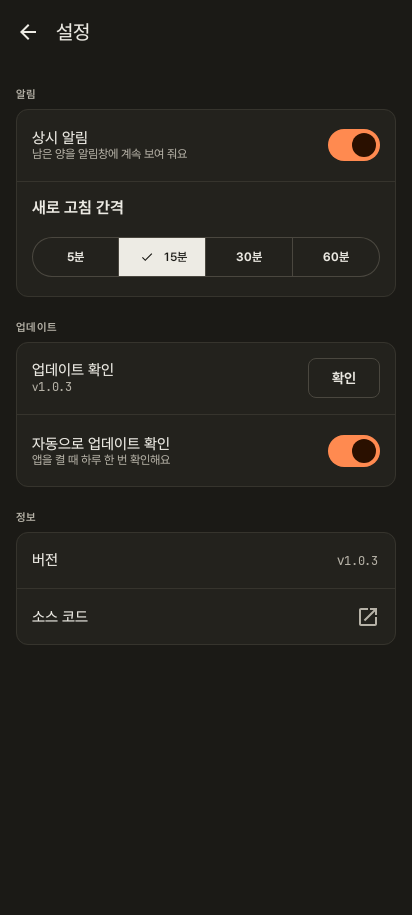
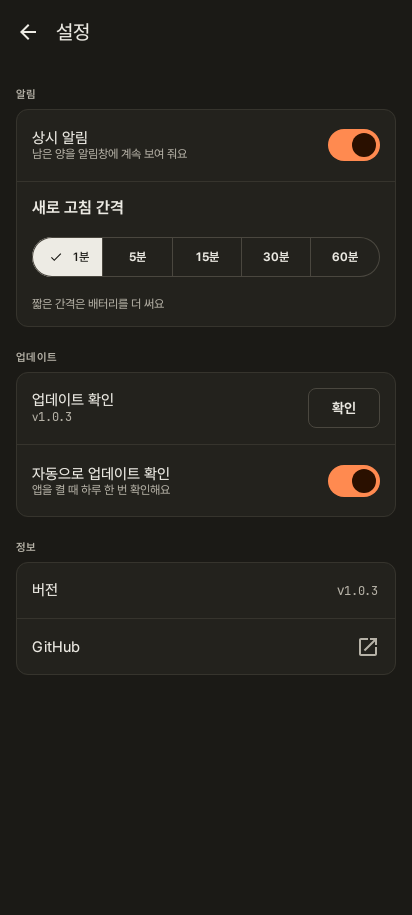
docs: README for v1.2.0 (#48)
* docs: README for v1.2.0

New app icon in the header, vendor logos in the supported-vendor table with trademark and source notes, the v1.2.0 vendor list, drag-to-reorder and refresh-interval feature lines, regenerated sample screenshots and the user-order notification caption. Adds a Roborazzi test that renders the vendor tiles for the README.

* docs: top-align README screenshot row and trim dashboard shots

diff --git a/app/src/test/java/org/parkjw/apps/oot/ui/VendorMarkDocsScreenshotTest.kt b/app/src/test/java/org/parkjw/apps/oot/ui/VendorMarkDocsScreenshotTest.kt
@@ -1,0 +1,54 @@
+package org.parkjw.apps.oot.ui
+
+import androidx.compose.foundation.layout.Row
+import androidx.compose.ui.Modifier
+import androidx.compose.ui.platform.testTag
+import androidx.compose.ui.test.junit4.createComposeRule
+import androidx.compose.ui.test.onNodeWithTag
+import com.github.takahirom.roborazzi.ExperimentalRoborazziApi
+import com.github.takahirom.roborazzi.captureRoboImage
+import com.github.takahirom.roborazzi.roborazziSystemPropertyOutputDirectory
+import org.junit.Rule
+import org.junit.Test
+import org.junit.runner.RunWith
+import org.parkjw.apps.oot.data.model.ProviderType
+import org.parkjw.apps.oot.ui.screens.VendorMark
+import org.parkjw.apps.oot.ui.theme.OotTheme
+import org.robolectric.RobolectricTestRunner
+import org.robolectric.annotation.Config
+import org.robolectric.annotation.GraphicsMode
+import java.io.File
+import java.util.Locale
+
+// Renders each vendor tile as it appears in the app, for the README's supported-vendor table
+// (docs/screenshots/vendors/<provider>.png).
+@OptIn(ExperimentalRoborazziApi::class)
+@RunWith(RobolectricTestRunner::class)
+@GraphicsMode(GraphicsMode.Mode.NATIVE)
+@Config(sdk = [35], qualifiers = "w412dp-h200dp-notnight-xxhdpi")
+class VendorMarkDocsScreenshotTest {
+
+    @get:Rule
+    val composeRule = createComposeRule()
+
+    @Test
+    fun vendorMarks() {
+        composeRule.setContent {
+            OotTheme(darkTheme = false) {
+                Row {
+                    ProviderType.entries.filter { it.isSelectable }.forEach { provider ->
+                        VendorMark(provider, Modifier.testTag("mark_${provider.name}"))
+                    }
+                }
+            }
+        }
+        ProviderType.entries.filter { it.isSelectable }.forEach { provider ->
+            composeRule.onNodeWithTag("mark_${provider.name}").captureRoboImage(
+                File(
+                    roborazziSystemPropertyOutputDirectory(),
+                    "vendor-${provider.name.lowercase(Locale.ROOT).replace('_', '-')}.png",
+                ),
+            )
+        }
+    }
+}

diff --git a/README.md b/README.md
@@ -1,3 +1,7 @@
+<p align="center">
+  <img src="docs/icon.png" alt="oot app icon" width="96">
+</p>
+
 <h1 align="center">oot</h1>
 
 <p align="center">
@@ -14,15 +18,15 @@
 
 <table>
   <tr>
-    <td align="center"><img src="docs/screenshots/dashboard-light.png" alt="Dashboard, light theme" width="240"><br><sub>Dashboard (light)</sub></td>
-    <td align="center"><img src="docs/screenshots/dashboard-dark.png" alt="Dashboard, dark theme" width="240"><br><sub>Dashboard (dark)</sub></td>
-    <td align="center"><img src="docs/screenshots/settings/settings-new-version.png" alt="In-app update prompt in Settings" width="240"><br><sub>In-app update prompt</sub></td>
+    <td align="center" valign="top"><img src="docs/screenshots/dashboard-light.png" alt="Dashboard, light theme" width="240"><br><sub>Dashboard (light)</sub></td>
+    <td align="center" valign="top"><img src="docs/screenshots/dashboard-dark.png" alt="Dashboard, dark theme" width="240"><br><sub>Dashboard (dark)</sub></td>
+    <td align="center" valign="top"><img src="docs/screenshots/settings/settings-new-version.png" alt="In-app update prompt in Settings" width="240"><br><sub>In-app update prompt</sub></td>
   </tr>
   <tr>
-    <td align="center" colspan="3"><img src="docs/screenshots/notification/notif-collapsed-412-light-3x.png" alt="Collapsed notification" width="412"><br><sub>Collapsed notification — one line with the lowest items</sub></td>
+    <td align="center" colspan="3"><img src="docs/screenshots/notification/notif-collapsed-412-light-3x.png" alt="Collapsed notification" width="412"><br><sub>Collapsed notification — one line, in your custom order</sub></td>
   </tr>
   <tr>
-    <td align="center" colspan="3"><img src="docs/screenshots/notification/notif-expanded-412-light-3x.png" alt="Expanded notification" width="412"><br><sub>Expanded notification — one line per vendor</sub></td>
+    <td align="center" colspan="3"><img src="docs/screenshots/notification/notif-expanded-412-light-3x.png" alt="Expanded notification" width="412"><br><sub>Expanded notification — one line per vendor, in your custom order</sub></td>
   </tr>
 </table>
 
@@ -32,13 +36,15 @@ Screenshots use sample data only.
 
 - **Per-vendor remaining amount**
   - Subscription windows (like 5-hour or weekly limits) are shown as **% left**, together with the window's reset time.
-  - API credit balances are shown in **$**.
-  - The **least-remaining limit is the headline** — the one about to run out first is what you see at a glance.
+  - API credit balances are shown as an amount (for example **$** or **¥**).
+  - The summary line at the top names the limit that is about to run out first.
   - Low items are highlighted at **20% left** and turn red at **5%**.
+- **Drag to reorder** — long-press a vendor card and drag it; the order is saved and the notification follows it.
 - **Persistent notification**
-  - Collapsed: a single line with the 2–3 lowest items, errored vendors first.
+  - Collapsed: a single line with the first 2–3 vendors in your custom order.
   - Expanded: one line per vendor, showing its 5-hour window when it has one (otherwise its lowest window) and that window's reset time.
   - Every notification also carries a plain-text summary (for example `Claude 62% · OpenRouter $12.40`), so it stays readable on devices that render custom notification layouts poorly.
+- **Refresh interval** — 1, 5, 15, 30 or 60 minutes. Short intervals run inside the notification's foreground service and use more battery; vendors that answer HTTP 429 are backed off automatically.
 - **In-app update**
   - Checks GitHub Releases on launch, at most once a day (toggle in Settings).
   - Downloads the APK, verifies it is signed with the same key as the installed app, then opens the system installer.
@@ -48,12 +54,19 @@ Screenshots use sample data only.
 
 | Vendor | Auth | What oot shows |
 | :--- | :--- | :--- |
-| **Claude** | API key or OAuth | 5-hour and weekly usage windows as % left, with reset times |
-| **OpenAI** | API key or OAuth | Remaining rate-limit tokens (and remaining requests when reported) |
-| **xAI (Grok)** | API key or device-code login | Weekly subscription quota as % left, with reset time |
-| **Z.ai (GLM)** | API key | GLM coding plan 5-hour and weekly quota as % left, with reset countdown |
-| **OpenRouter** | API key | Remaining credit balance in $, taking the key's own limit into account |
-| **Cursor** | OAuth | Remaining fast (on-demand) requests |
+| <img src="docs/screenshots/vendors/vendor-claude.png" alt="" width="20" align="center"> **Claude** | API key or OAuth | 5-hour and weekly usage windows as % left, with reset times |
+| <img src="docs/screenshots/vendors/vendor-openai.png" alt="" width="20" align="center"> **OpenAI** | ChatGPT sign-in (OAuth) or API key | ChatGPT plan 5-hour and weekly windows as % left, with reset times; with an API key, remaining rate-limit tokens |
+| <img src="docs/screenshots/vendors/vendor-xai.png" alt="" width="20" align="center"> **xAI (Grok)** | API key or device-code login | Weekly subscription quota as % left, with reset time |
+| <img src="docs/screenshots/vendors/vendor-zai.png" alt="" width="20" align="center"> **Z.ai (GLM)** | API key | GLM coding plan 5-hour and weekly quota as % left, with reset times |
+| <img src="docs/screenshots/vendors/vendor-openrouter.png" alt="" width="20" align="center"> **OpenRouter** | API key | Account credits in $, plus the key's own limit and what is left of it, when the key has one |
+| <img src="docs/screenshots/vendors/vendor-deepseek.png" alt="" width="20" align="center"> **DeepSeek** | API key | Remaining balance (USD or CNY) |
+| <img src="docs/screenshots/vendors/vendor-ollama-cloud.png" alt="" width="20" align="center"> **Ollama Cloud** | API key | Session and monthly usage as % left, with reset times |
+| <img src="docs/screenshots/vendors/vendor-opencode-go.png" alt="" width="20" align="center"> **OpenCode Go** | API key | Subscription usage windows as % left, with reset times |
+| <img src="docs/screenshots/vendors/vendor-antigravity.png" alt="" width="20" align="center"> **Google Antigravity** | Google sign-in (OAuth) | Google-model and third-party-model quota as % left; the notification shows the Google-model value |
+
+OpenAI and Z.ai are shown with a letter tile because their brand terms do not allow using the logo without permission.
+
+All trademarks and logos are the property of their respective owners and are used only to identify each vendor; this does not imply endorsement. Sources and license notes for every logo: [docs/third-party-logos.md](docs/third-party-logos.md).
 
 ## Install
 
@@ -81,5 +94,3 @@ Tokens and API keys are stored locally in encrypted storage (`EncryptedSharedPre
 ## License
 
 No license has been chosen yet.
-
-Vendor logos are trademarks of their respective owners. See [docs/third-party-logos.md](docs/third-party-logos.md).
